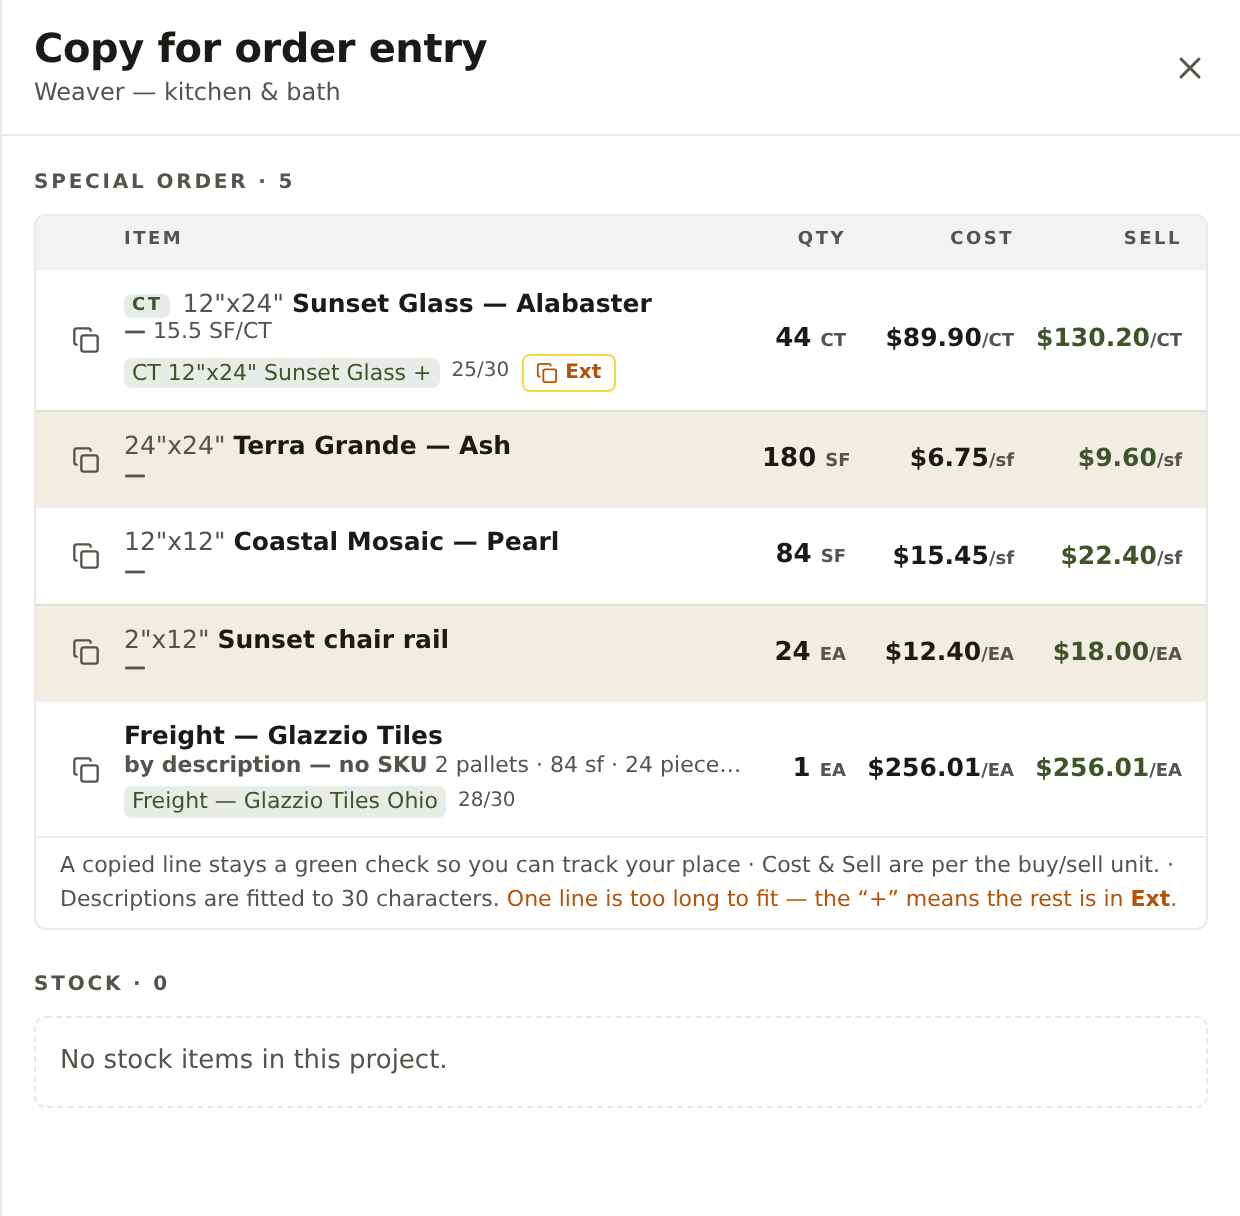
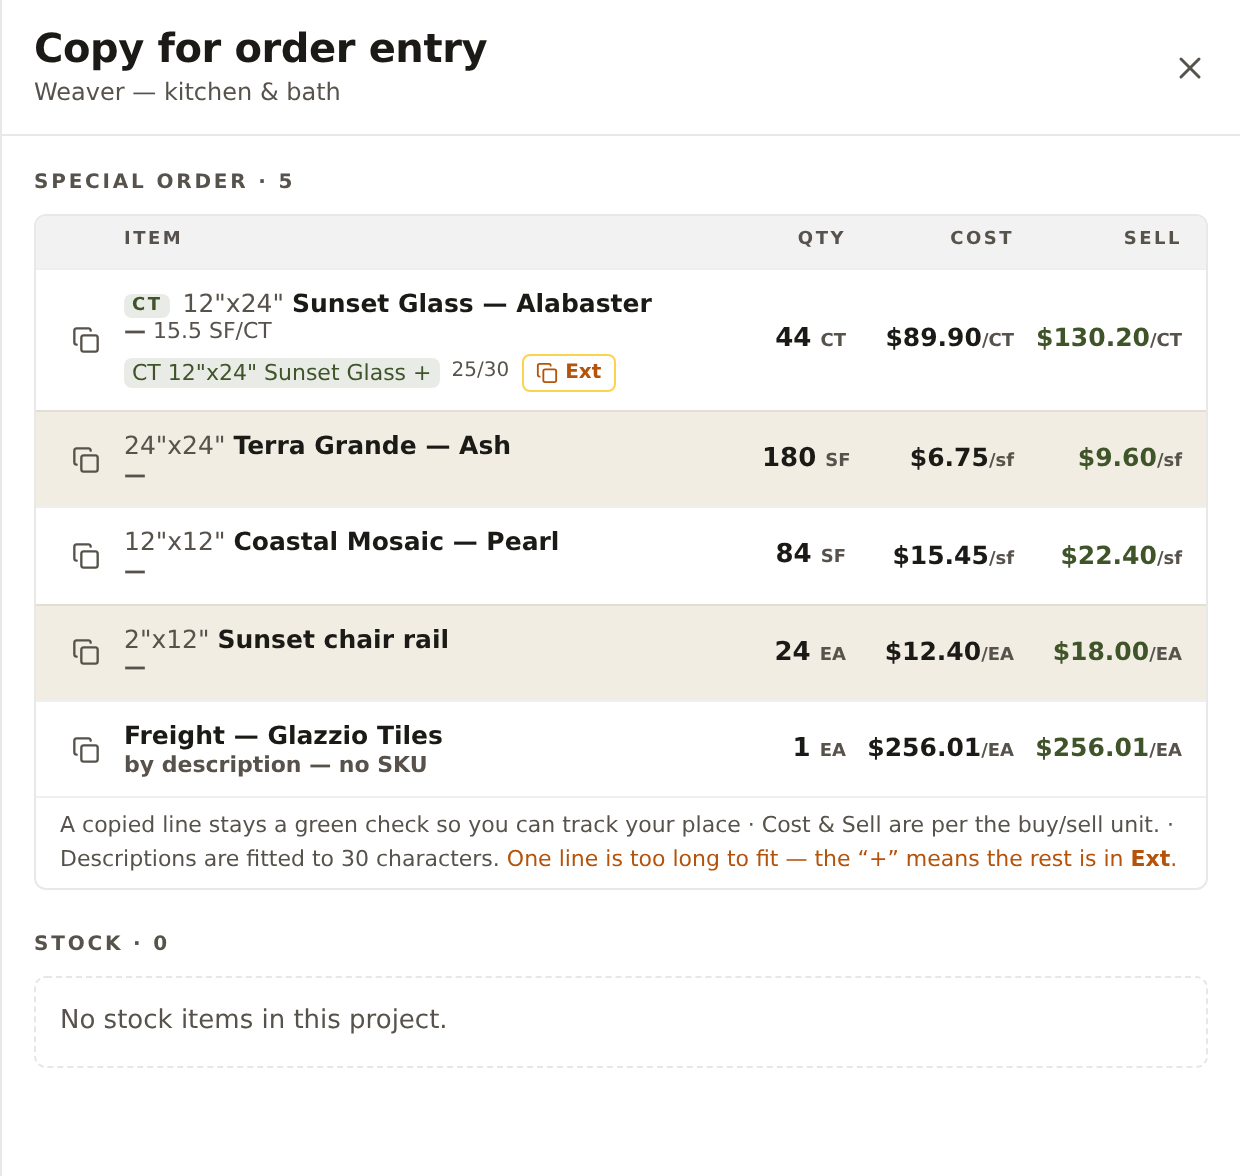
Order entry: the freight line is just the vendor
"Freight — Glazzio", nothing else. The destination and the pallet/footage
readout justify the price to a customer on the estimate; on a PO that already
names the vendor and ships to one address they're characters the desk reads
past. The breakdown stays where it was — the estimate's freight group, the row
chip, the materials drawer.

Drops the coverageShort mechanism from the last commit with them: it existed
only to keep that readout from pushing the line onto the split rung, and with
no readout the description sits on the clean "full" rung — no chip, no "+",
no Ext.

Claude-Session: https://claude.ai/code/session_019H3gsVuXCTiZy5vzhCyUs5

diff --git a/src/freight.js b/src/freight.js
@@ -318,10 +318,15 @@ export function freightPrintRows(lines) {
 // keys shipping as one charge, and a book that bills two tables would otherwise
 // take three lines whose quantities (pallets, feet, pieces) all mean different
 // things and none of which is what the vendor invoices. So the parts collapse
-// to a summary in the description and the line is 1 EA at the total.
+// into the total and the line is 1 EA at it.
 //
 // Combined per BOOK, not across books: two vendors with freight are two orders
 // on two POs, and one merged line couldn't be keyed against either.
+//
+// The line is the vendor and nothing else — no destination, no pallet/footage
+// readout. Those are the estimate's job (they justify the price to a customer);
+// on a PO that already names the vendor and ships to one address, they're
+// characters the desk reads past.
 //
 // No markup: `perSell` mirrors `perCost`. The customer is charged what the
 // vendor charges, so the panel's two columns agree on purpose (ADR 0030).
@@ -329,9 +334,7 @@ export function freightOrderRow(line, descLimit) {
   const r = {
     id: `freight|${line.bookId}`,
     special: true, byDesc: true, freight: true, area: "whole order",
-    tag: "", sizePlain: "", name: `Freight — ${line.book}`, sku: "",
-    coverage: [freightSummary(line), line.destination].filter(Boolean).join(" · "),
-    coverageShort: line.destination,
+    tag: "", sizePlain: "", name: `Freight — ${line.book}`, sku: "", coverage: "",
     qty: 1, qtyAssumed: false, unitCode: "EA", qtyText: "1 EA",
     perCost: line.cost, perSell: line.cost,
   };

diff --git a/src/freight.test.js b/src/freight.test.js
@@ -285,12 +285,10 @@ test("freightOrderRow: several tables key as ONE line at the combined total", ()
   assert.equal(row.unitCode, "EA");
   assert.equal(row.perCost, line.cost);
   assert.equal(row.perCost, freightTotal([line]));
-  // The parts survive as the line's readable breakdown, not as its quantity.
-  assert.match(row.coverage, /pallet/);
-  assert.match(row.coverage, /Ohio$/);
-  // …and the ERP field takes the destination instead of the arithmetic, so a
-  // complete description never wears a "+" pointing at an extended text that
-  // would only repeat the breakdown.
-  assert.equal(row.desc.main, "Freight — Glazzio Ohio");
+  // The line names the vendor and nothing else: the parts and the destination
+  // justify the price on the estimate, not on a PO that already names both. So
+  // it also never wears the split rung's "+" pointing at an extended text.
+  assert.equal(row.desc.main, "Freight — Glazzio");
+  assert.equal(row.desc.tier, "full");
   assert.equal(row.desc.ext, null);
 });

diff --git a/src/orderentry.js b/src/orderentry.js
@@ -73,12 +73,7 @@ export function orderDescription(r, limit) {
   ];
   const tail = [];
   if (r.sku) tail.push({ full: String(r.sku), rank: 1 });
-  // `coverageShort` is for a row whose on-screen coverage is a readout rather
-  // than a spec — a freight line's "2 pallets · 84 sf · 24 pieces · Ohio". The
-  // desk needs the destination, not the arithmetic, and without a short form the
-  // whole line would descend to the split rung and wear a "+" promising an
-  // extended text that adds nothing.
-  if (r.coverage) tail.push({ full: String(r.coverage), short: String(r.coverageShort || ""), rank: 2 });
+  if (r.coverage) tail.push({ full: String(r.coverage), rank: 2 });
   return fitDescription([...parts, ...tail], limit);
 }
 

diff --git a/.scratch/073_order-entry-freight-line-and-fit/ticket.md b/.scratch/073_order-entry-freight-line-and-fit/ticket.md
@@ -26,13 +26,18 @@ book billing two or three tables was producing three lines whose quantities —
 pallets, feet, pieces — all meant different things and none of which was what
 the vendor invoices.
 
-So the parts collapse into the description's readout and the line is
-**1 EA at the book's whole charge**. Still combined per BOOK, not across books:
-two vendors with freight are two orders on two POs, and one merged line
-couldn't be keyed against either.
+So the parts collapse into the total and the line is **1 EA at the book's whole
+charge**. Still combined per BOOK, not across books: two vendors with freight
+are two orders on two POs, and one merged line couldn't be keyed against either.
 
 Glazzio example: was 3 lines (`2 PLT @ $79`, `84 SF @ $0.99`, `24 PC @ $0.33`),
-now 1 line — `Freight — Glazzio Tiles · 1 EA · $256.01`.
+now 1 line — `Freight — Glazzio · 1 EA · $256.01`.
+
+The line is **the vendor and nothing else** (owner, 2026-08-01) — no
+destination, no pallet/footage readout. Those justify the price to a customer
+on the estimate; on a PO that already names the vendor and ships to one
+address, they're characters the desk reads past. It also means the description
+sits on the clean "full" rung: no chip, no `+`, no Ext.
 
 ### 2. The size is one token
 
@@ -57,14 +62,6 @@ text doesn't say **CT** is an order for 44 tiles instead of 44 cartons.
 The tag now leads the description as a **rank-0 part** — never dropped, two
 characters — so the flow is `unit · size · product · SKU · coverage`, and what
 pastes is what the panel shows in front of the item. Stale comments fixed.
-
-### 4. (fallout) `coverageShort`, so a complete line doesn't wear a "+"
-
-The freight line's coverage is a readout — `2 pallets · 84 sf · 24 pieces ·
-Ohio` — not a spec. It overran 30 characters and dropped the whole line to the
-split rung, so a description that was already complete wore a "+" promising an
-extended text that added nothing. A part may now carry a `short`, and freight's
-is the destination: `Freight — Glazzio Tiles Ohio`, 28/30, full stop.
 
 ## Proof
 

diff --git a/CLAUDE.md b/CLAUDE.md
@@ -396,9 +396,7 @@ src/
                     # carton line not saying CT in its own text orders 44 tiles
                     # instead of 44 cartons; `tightSize` makes a dimension one
                     # token, `12"x24"`, collapsing only between digits so a "Hex
-                    # Tile" keeps its spaces; a row may carry `coverageShort`
-                    # when its coverage is a readout rather than a spec, so a
-                    # complete line doesn't descend to the split rung's "+") and
+                    # Tile" keeps its spaces) and
                     # `orderCopyText` (the description field's contents, nothing
                     # else — qty/cost/sell are separate ERP fields with their own
                     # columns; the unit tag is NOT one of them, so it rides
@@ -421,10 +419,11 @@ src/
                     # count in the section footer. A Sheoga line has
                     # no SKU to key, so it reads "by description — no SKU".
                     # Vendor freight rides the Special list too — ONE line per
-                    # book (freightOrderRow), keyed 1 EA at that vendor's whole
-                    # charge: the parts break out where the customer reads them,
-                    # but the desk keys shipping as a single charge and pallets/
-                    # feet/pieces can't share a quantity column
+                    # book (freightOrderRow), reading "Freight — <vendor>" and
+                    # keyed 1 EA at that vendor's whole charge: the parts and
+                    # the destination justify the price on the ESTIMATE, but the
+                    # desk keys shipping as a single charge and pallets/feet/
+                    # pieces can't share a quantity column
   vendorfetch.js    # vendor sheet fetch (ADR 0019): portal-link parse/validate,
                     # bookmarklet source + clipboard hand-off (copies a marked
                     # base64 payload — HANDOFF_MARK/stripHandoffMark — that the

diff --git a/docs/adr/0030-vendor-freight-program.md b/docs/adr/0030-vendor-freight-program.md
@@ -88,11 +88,13 @@ Neither reserved mode fits: `perSqft` has no minimum and no threshold, and flat
    price tiers.** It prints in the estimate's extras band as its own "Freight"
    group naming the vendor, the destination, and each part's unit and rate; the
    order-entry panel files it with the **special orders**, by description (there
-   is no SKU to key), with cost and sell matching — as **one line per book, keyed
-   1 EA at that book's whole charge** (amended 2026-08-01, issue 073: the parts
-   break out wherever the customer reads the number, but the ERP takes shipping
-   as a single charge, and a book billing pallets *and* feet *and* pieces has no
-   one quantity to key). Builder/Sale/Custom discount
+   is no SKU to key), with cost and sell matching — as **one line per book
+   reading "Freight — «vendor»", keyed 1 EA at that book's whole charge**
+   (amended 2026-08-01, issue 073). The parts and the destination justify the
+   price on the estimate; the ERP takes shipping as a single charge, a book
+   billing pallets *and* feet *and* pieces has no one quantity to key, and a PO
+   that already names the vendor and ships to one address needs neither readout.
+   Builder/Sale/Custom discount
    the shop's prices, not the trucking company's — ADR 0018 already excluded
    freight from Employee pricing, and this extends the same reading to the
    discount tiers. `freightList` accordingly reads the raw project, never the
